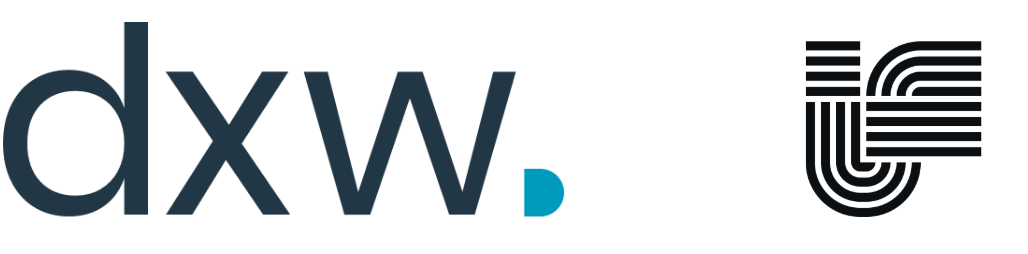
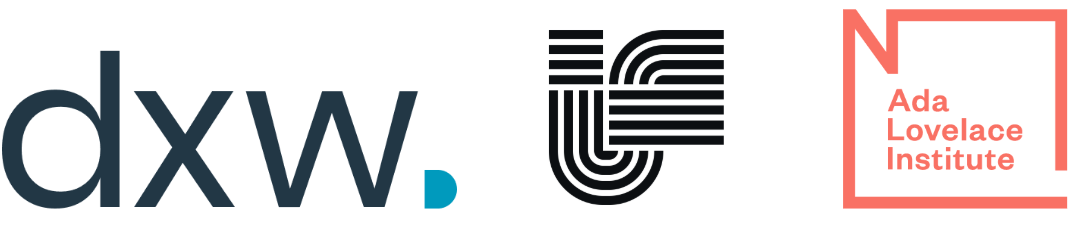
Add Ada as unconference partner

diff --git a/_events/2025-03-20-unconference.md b/_events/2025-03-20-unconference.md
@@ -37,11 +37,9 @@ We have about 80 places. If you would like to attend please complete the form be
 
 The day is broken down into sessions with breakout rooms available for each (several concurrent conversations). If you're unsure how this format works you can [watch this short video](https://www.linkedin.com/posts/mgilroy_ok-this-sounds-like-a-cool-concept-but-activity-7258090198394138624-5269/) and/or [read this blog](https://blog.weareconvivio.com/what-to-expect-at-ukgovcamp-ecc37191dc81) which although specifically about another unconference many of the principles will apply to our day, and/or email [Emily](mailto:emily@connectedbydata.org).
 
-We have about 80 places. The first batch (around 60) will be allocated on a first come, first served basis. After those have been filled we will email you to let you know you are on a wait list and doing a 'random allocation' for the final spaces. 
-
 > To register for this event please [complete this form](https://docs.google.com/forms/d/e/1FAIpQLSdfa14L47exSdwK1jwF_UNjxzti2HcmJq1wDATJ1nPTBQk3ow/viewform?usp=header).
 
-We are proud to be partnering with [dxw](https://www.dxw.com/) and [Projects by IF](https://www.projectsbyif.com/) in the delivery of this event.
-![Partner organisation logos. These are dxw and Projects by IF"](/assets/events/2025-03-20-partners.png)
+We are proud to be partnering with [dxw](https://www.dxw.com/) and [Projects by IF](https://www.projectsbyif.com/) and [Ada Lovelace Institute](https://www.adalovelaceinstitute.org/) in the delivery of this event.
+![Partner organisation logos. These are dxw and Projects by IF and Ada Lovelace Institute"](/assets/events/2025-03-20-partners.png)
 
 This event forms part of Connected by Data’s project supported by the Mohn Westlake Foundation, [Giving communities a powerful say in public sector data and AI projects](https://connectedbydata.org/projects/2024-mohn-westlake), and builds on our convening to date, including our design labs on procurement in Wales (with TUC Cymru) and the National Data Library (with DSIT), and[ our community of practice](https://connectedbydata.org/projects/2024-community-of-practice).
